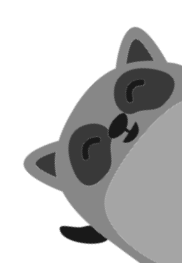
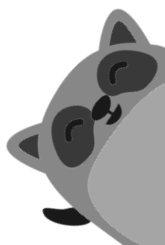
schedule lookin good

Changed region(s): [[0.0303, 0.0286, 1.0, 1.0]]

diff --git a/client/src/App.css b/client/src/App.css
@@ -9,7 +9,7 @@
   min-height: inherit;
   color: white;
   margin-top: 160px;
-  min-height: 75vh;
+  min-height: 80vh;
   display: flex;
   flex-direction: column;
   align-items: center;
@@ -22,5 +22,10 @@
   bottom: 0;
   right: 0;
   z-index: 10000;
+  transition: transform .3s; /* Animation */
 }
 
+.Raccoon:hover {
+  transform: scale(1.2);
+  cursor: pointer;
+}
